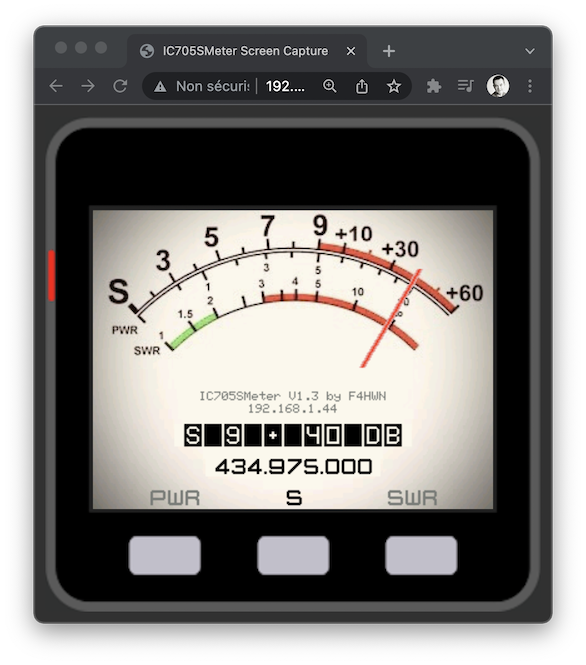
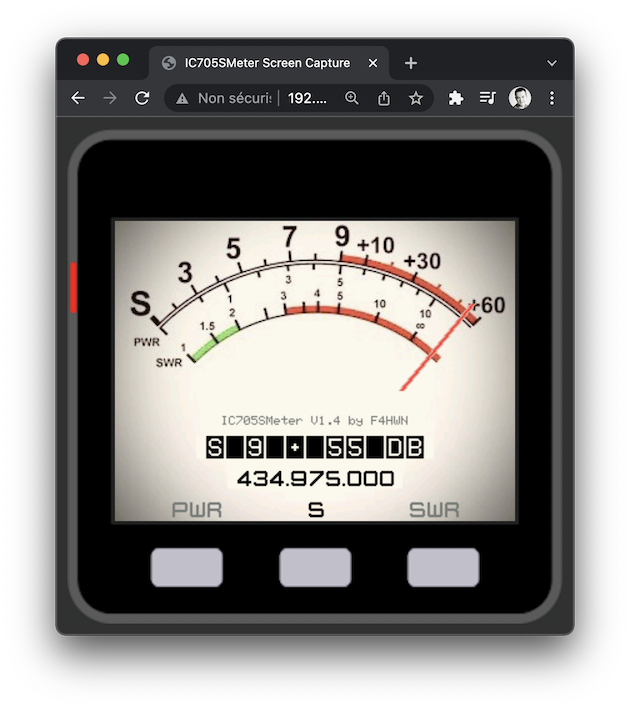
Fix overflow

diff --git a/src/functions.h b/src/functions.h
@@ -45,29 +45,38 @@ float mapFloat(float x, float in_min, float in_max, float out_min, float out_max
 // Print needle
 void needle(float_t angle, uint16_t a = 0, uint16_t b = 200, uint16_t c = 0, uint16_t d = 110)
 {
+  static float angleOld;
   uint16_t x, y;
 
-  x = a;
-  y = b;
+  if(angle != angleOld) {
+    angleOld = angle;
 
-  rotate(&x, &y, angle);
+    x = a;
+    y = b;
 
-  a = 160 + x;
-  b = 220 - y;
+    rotate(&x, &y, angle);
 
-  x = c;
-  y = d;
+    a = 160 + x;
+    b = 220 - y;
 
-  rotate(&x, &y, angle);
+    x = c;
+    y = d;
 
-  c = 160 + x;
-  d = 220 - y;
+    rotate(&x, &y, angle);
 
-  M5.Lcd.drawLine(a + 2, b, c + 2, d, TFT_NEDDLE_2);
-  M5.Lcd.drawLine(a + 1, b, c + 1, d, TFT_NEDDLE_1);
-  M5.Lcd.drawLine(a, b, c, d, TFT_RED);
-  M5.Lcd.drawLine(a - 1, b, c - 1, d, TFT_NEDDLE_1);
-  M5.Lcd.drawLine(a - 2, b, c - 2, d, TFT_NEDDLE_2);
+    c = 160 + x;
+    d = 220 - y;
+
+    M5.Lcd.drawJpg(smeterTop, sizeof(smeterTop), 0, 0, 320, 150);
+
+    //M5.Lcd.drawFastHLine(0, 150, 320, TFT_BLACK);
+
+    M5.Lcd.drawLine(a + 2, b, c + 2, d, TFT_NEDDLE_2);
+    M5.Lcd.drawLine(a + 1, b, c + 1, d, TFT_NEDDLE_1);
+    M5.Lcd.drawLine(a, b, c, d, TFT_RED);
+    M5.Lcd.drawLine(a - 1, b, c - 1, d, TFT_NEDDLE_1);
+    M5.Lcd.drawLine(a - 2, b, c - 2, d, TFT_NEDDLE_2);
+  }
 }
 
 // Print value
@@ -86,17 +95,6 @@ void value(String valString, uint8_t x = 160, uint8_t y = 180)
     M5.Lcd.setTextColor(TFT_BLACK, TFT_BACK);
     valString.replace(".", ",");
     M5.Lcd.drawString(valString, x, y);
-
-    M5.Lcd.setTextDatum(CC_DATUM);
-    M5.Lcd.setFreeFont(0);
-    M5.Lcd.setTextPadding(0);
-    M5.Lcd.setTextColor(TFT_DARKGREY);
-    M5.Lcd.drawString(String(NAME) + " V" + String(VERSION) + " by " + String(AUTHOR), 160, 150);
-
-    if (WiFi.status() == WL_CONNECTED)
-    {
-      M5.Lcd.drawString(String(WiFi.localIP().toString().c_str()), 160, 160);
-    }
   }
 }
 
@@ -363,8 +361,6 @@ void getSmeter()
       val3 = val0;
       reset = false;
 
-      M5.Lcd.drawJpg(smeterTop, sizeof(smeterTop), 0, 0, 320, 160);
-
       if (val0 <= 120)
       {
         angle = mapFloat(val0, 0, 120, 49.0f, -6.50f); // SMeter image start at S1 so S0 is out of image on the left...
@@ -459,8 +455,6 @@ void getSWR()
     {
       val3 = val0;
       reset = false;
-
-      M5.Lcd.drawJpg(smeterTop, sizeof(smeterTop), 0, 0, 320, 160);
 
       if (val0 <= 48)
       {
@@ -582,8 +576,6 @@ void getPower()
     {
       val3 = val0;
       reset = false;
-
-      M5.Lcd.drawJpg(smeterTop, sizeof(smeterTop), 0, 0, 320, 160);
 
       if (val0 <= 13)
       {
@@ -760,8 +752,6 @@ void getDebug()
     {
       val3 = val0;
       reset = false;
-
-      M5.Lcd.drawJpg(smeterTop, sizeof(smeterTop), 0, 0, 320, 160);
 
       if (val0 <= 120)
       {

diff --git a/src/IC705SMeter.cpp b/src/IC705SMeter.cpp
@@ -49,12 +49,8 @@ void setup()
   M5.Lcd.setTextDatum(CC_DATUM);
   M5.Lcd.setFreeFont(0);
   M5.Lcd.setTextPadding(0);
-  M5.Lcd.setTextColor(TFT_BLACK);
-  M5.Lcd.drawString(String(NAME) + " V" + String(VERSION) + " by " + String(AUTHOR), 160, 145);
-
-  if(WiFi.status() == WL_CONNECTED) {
-    M5.Lcd.drawString(String(WiFi.localIP().toString().c_str()), 160, 155);
-  }
+  M5.Lcd.setTextColor(TFT_DARKGREY);
+  M5.Lcd.drawString(String(NAME) + " V" + String(VERSION) + " by " + String(AUTHOR), 160, 160);
   */
 
   CAT.register_callback(callbackBT);
@@ -72,6 +68,8 @@ void loop()
   uint8_t btnA;
   uint8_t btnB; 
   uint8_t btnC;
+
+  static uint8_t alternance = 0;
 
   if (btConnected == false) {
     value("NEED PAIRING");
@@ -123,6 +121,24 @@ void loop()
   }
 
   viewOption();
+
+  if(alternance == 0) {
+    M5.Lcd.setTextDatum(CC_DATUM);
+    M5.Lcd.setFreeFont(0);
+    M5.Lcd.setTextPadding(160);
+    M5.Lcd.setTextColor(TFT_DARKGREY, TFT_BACK);
+    M5.Lcd.drawString(String(NAME) + " V" + String(VERSION) + " by " + String(AUTHOR), 160, 160);
+  }
+  else if(alternance == 20 && WiFi.status() == WL_CONNECTED)
+  {
+    M5.Lcd.setTextDatum(CC_DATUM);
+    M5.Lcd.setFreeFont(0);
+    M5.Lcd.setTextPadding(160);
+    M5.Lcd.setTextColor(TFT_DARKGREY, TFT_BACK);
+    M5.Lcd.drawString(String(WiFi.localIP().toString().c_str()), 160, 160);
+  }
+
+  alternance = (alternance++ < 30) ? alternance : 0;
 
   if (WiFi.status() == WL_CONNECTED)
   {
